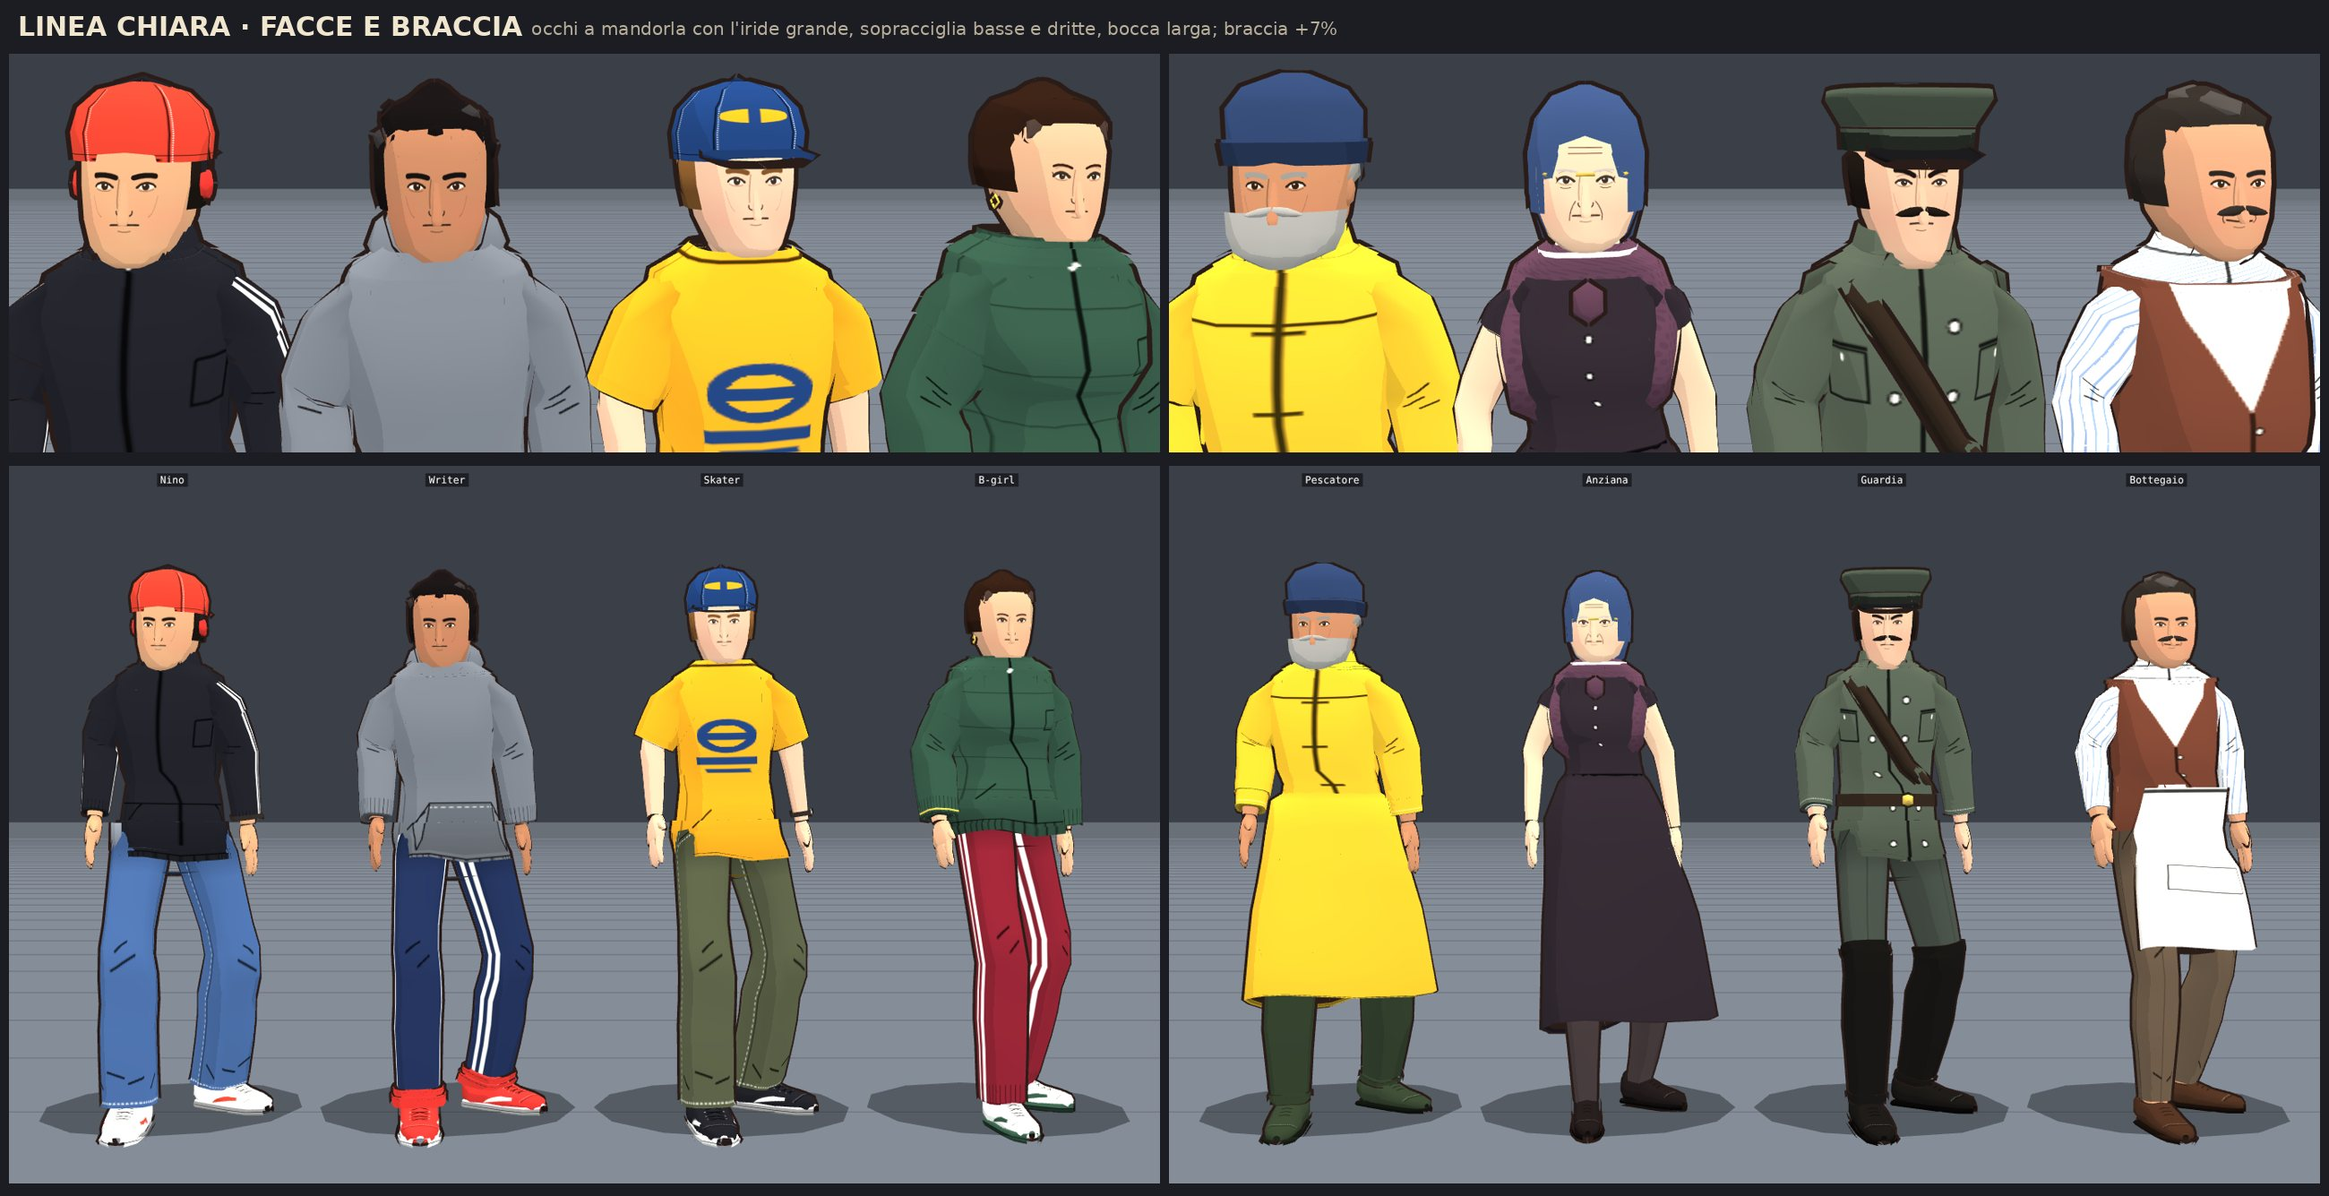
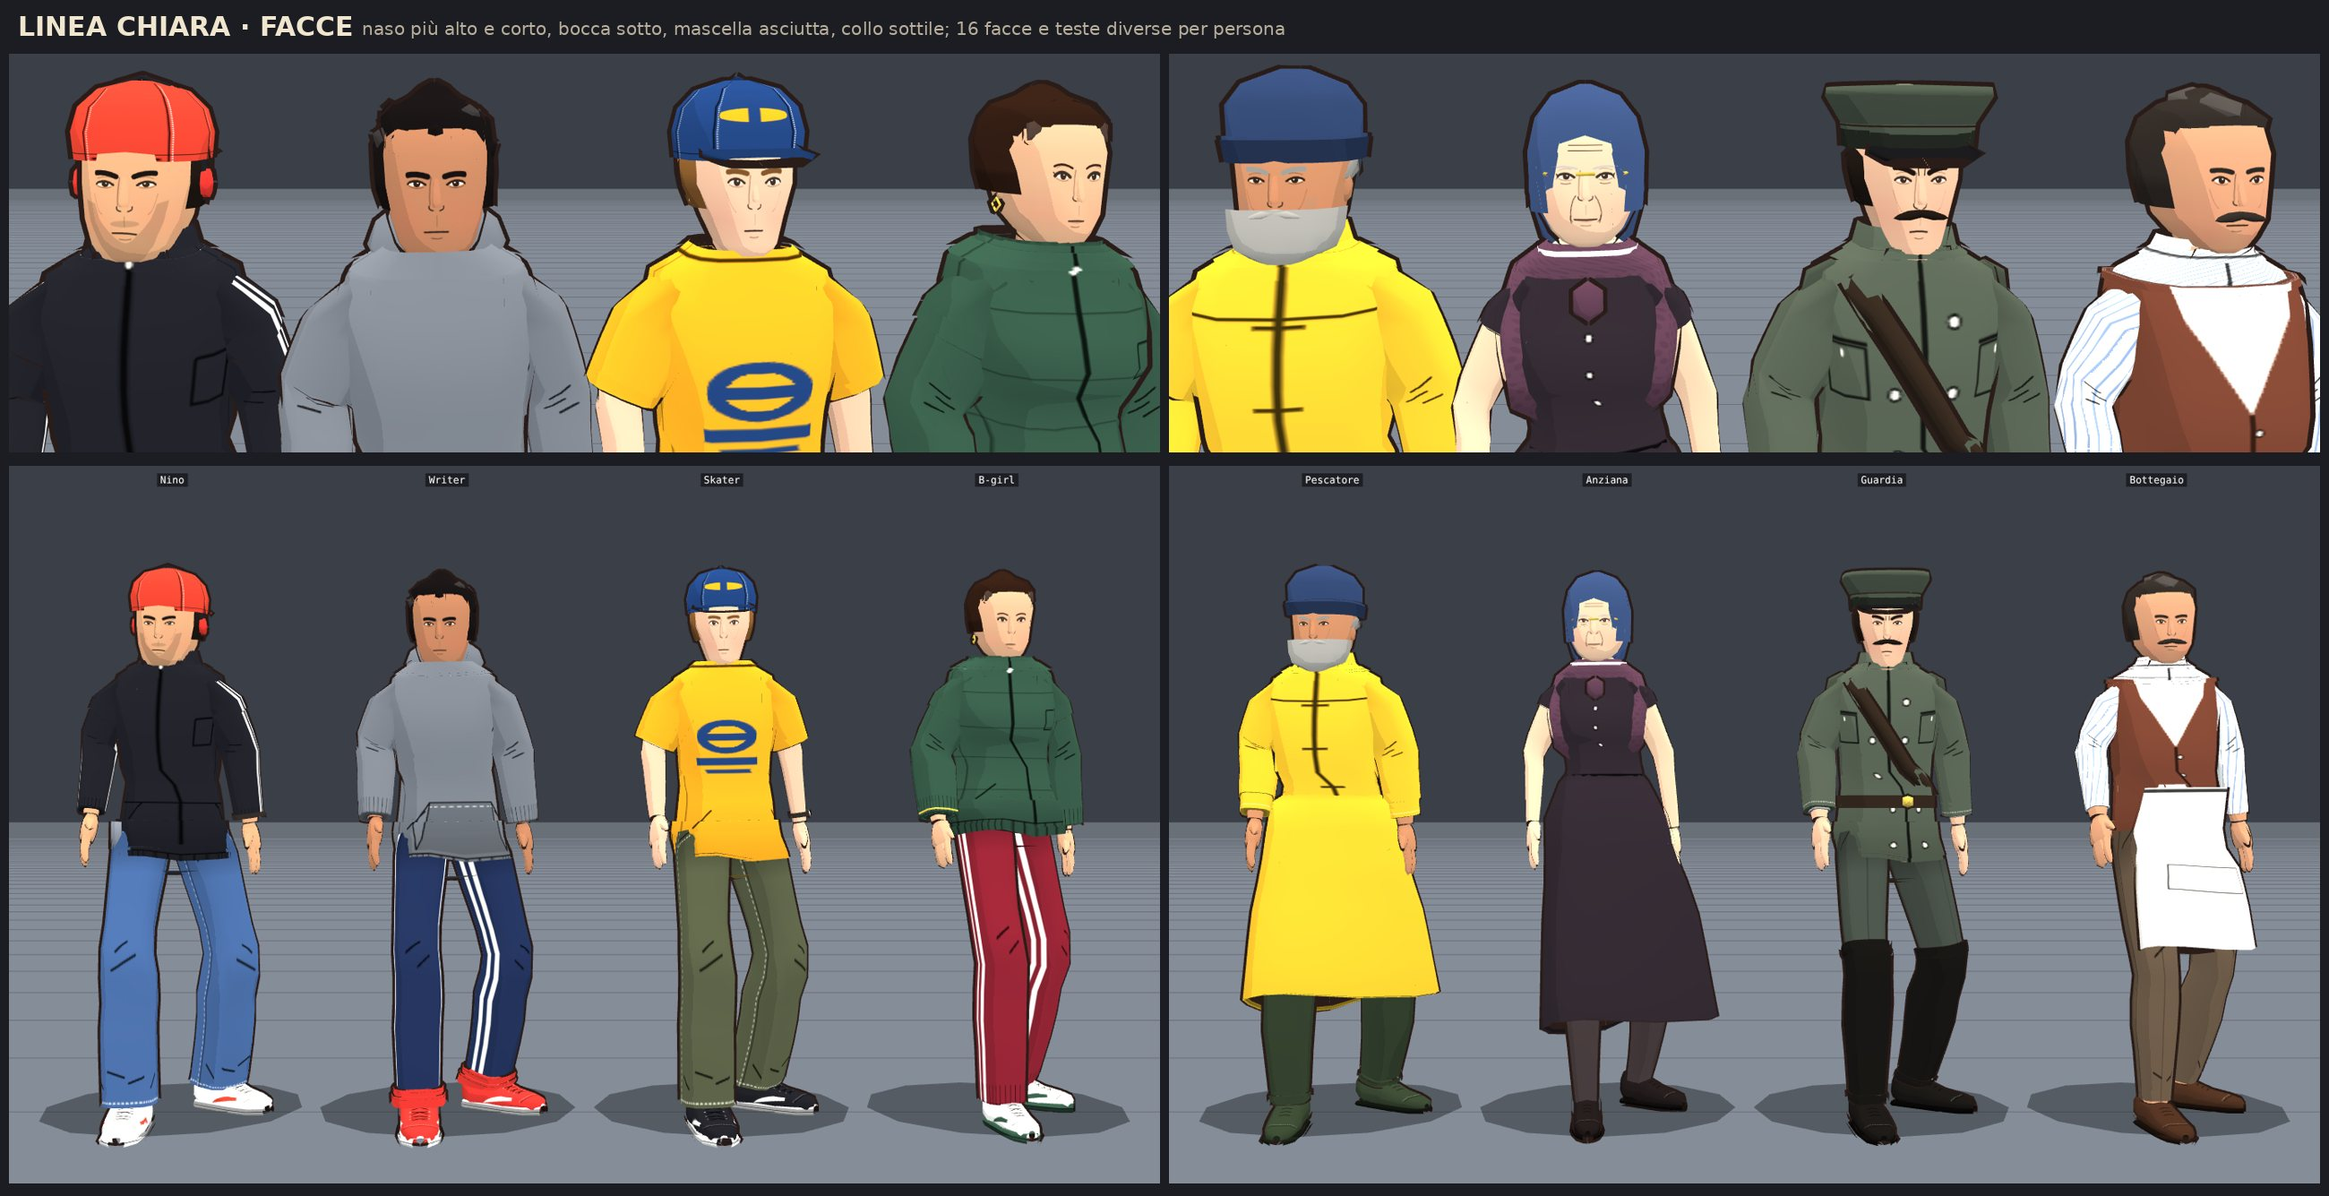
[personaggi] facce: naso sopra la bocca, mascella asciutta, più varietà
Naso più alto e corto (finisce sopra la bocca), bocca e baffi più in basso; mascelle più strette e
mento netto, collo più sottile (niente doppio mento). Ogni testa varia dal seme (mascella, zigomi,
fronte, mento, naso) e le facce dipinte sono 16 (occhi, sopracciglia, bocca e segni diversi).

Claude-Session: https://claude.ai/code/session_01JZTxbDaFvr9eJLacMLFKTo

diff --git a/v7/src/personaggi.js b/v7/src/personaggi.js
@@ -240,7 +240,7 @@ var Personaggi = (function () {
     // il fondo del busto: si chiude tra le cosce
     { const G = geomB(0), y0 = yOf(tlo); const L = strati(listaB, tlo + .002).top; loft(B, [{ c: [0, y0, G.c[2]], t: [0, 1, 0], a: G.a * (1 + tlo * 2.2) + .01, b: G.b * (1 + tlo * 2.2) + .01, col: L ? L.col : pelle, ao: .7, w: [['Hips', 1]] }, { c: [0, y0 - .01, G.c[2]], t: [0, 1, 0], a: .01, b: .01, col: L ? L.col : pelle, ao: .6, w: [['Hips', 1]] }]); }
     // il collo e il pomo: dentro la testa
-    loft(B, [0, .5, 1].map(q => { const y = lerp(yT - .01, J.Head[1] + .05, q); return { c: [0, y, lerp(J.Neck[2], J.Head[2] - .005, q)], t: [0, 1, 0], a: (f ? .045 : .055) * (D.corpo && D.corpo.robusto || 1), b: (f ? .045 : .052), col: pelle, ao: lerp(.8, .9, q), w: catena(y, ys, spine, [0, .05, .06, .07, .03, .025]) }; }));
+    loft(B, [0, .5, 1].map(q => { const y = lerp(yT - .01, J.Head[1] + .05, q); return { c: [0, y, lerp(J.Neck[2], J.Head[2] - .005, q)], t: [0, 1, 0], a: (f ? .038 : .047) * (D.corpo && D.corpo.robusto || 1) * lerp(1, .92, q), b: (f ? .038 : .045) * lerp(1, .9, q), col: pelle, ao: lerp(.8, .9, q), w: catena(y, ys, spine, [0, .05, .06, .07, .03, .025]) }; }));
     // ---------------- BRACCIA ----------------
     ['L', 'R'].forEach(sd => {
       const sg = sd === 'L' ? 1 : -1, j0 = J['UpperArm' + sd], j1 = J['LowerArm' + sd], j2 = J['Wrist' + sd], jS = J['Shoulder' + sd];
@@ -346,19 +346,30 @@ var Personaggi = (function () {
   }
   // ---------------- LA TESTA: cranio, mascella, naso, orecchie, sopracciglia, occhi, bocca, capelli a ciocche, baffi, barbe, occhiali, cappelli ----------------
   const TESTE = {   // [quota, mezza larghezza, mezza profondità, avanti] dal mento alla sommità (in metri, prima della scala dello stile)
-    ovale: [[-.034, .03, .02, .06], [-.026, .045, .038, .05], [-.012, .058, .066, .03], [.03, .074, .09, .012], [.085, .083, .1, .0], [.135, .086, .104, -.006], [.18, .079, .094, -.012], [.215, .056, .068, -.016], [.235, .014, .02, -.016]],
-    quadra: [[-.045, .026, .02, .07], [-.035, .048, .04, .055], [-.012, .068, .07, .03], [.03, .08, .092, .012], [.085, .086, .1, .0], [.135, .087, .103, -.006], [.18, .081, .094, -.012], [.21, .06, .07, -.015], [.232, .018, .024, -.015]],
-    tonda: [[-.04, .02, .02, .065], [-.03, .044, .044, .05], [-.01, .068, .074, .028], [.03, .084, .095, .01], [.085, .09, .102, .0], [.135, .089, .103, -.006], [.18, .08, .093, -.012], [.21, .057, .066, -.015], [.228, .015, .02, -.015]],
-    lunga: [[-.048, .03, .02, .064], [-.038, .044, .036, .052], [-.018, .055, .064, .032], [.03, .071, .088, .012], [.09, .08, .099, .0], [.14, .082, .102, -.006], [.19, .075, .093, -.012], [.225, .053, .065, -.016], [.245, .012, .018, -.016]],
+    ovale: [[-.034, .022, .02, .058], [-.024, .038, .034, .05], [-.006, .053, .06, .032], [.03, .068, .085, .014], [.085, .081, .099, .0], [.135, .085, .103, -.006], [.18, .079, .094, -.012], [.215, .056, .068, -.016], [.235, .014, .02, -.016]],
+    quadra: [[-.038, .03, .02, .062], [-.028, .048, .036, .052], [-.008, .062, .062, .032], [.03, .074, .088, .014], [.085, .084, .099, .0], [.135, .086, .103, -.006], [.18, .081, .094, -.012], [.21, .06, .07, -.015], [.232, .018, .024, -.015]],
+    tonda: [[-.032, .022, .02, .056], [-.022, .042, .038, .048], [-.004, .06, .064, .03], [.03, .076, .089, .012], [.085, .087, .1, .0], [.135, .088, .103, -.006], [.18, .08, .093, -.012], [.21, .057, .066, -.015], [.228, .015, .02, -.015]],
+    lunga: [[-.044, .022, .018, .062], [-.032, .038, .032, .052], [-.012, .052, .058, .032], [.03, .066, .086, .012], [.09, .078, .098, .0], [.14, .081, .102, -.006], [.19, .075, .093, -.012], [.225, .053, .065, -.016], [.245, .012, .018, -.016]],
   };
-  // le facce della tessera: 0 uomo, 1 uomo duro, 2 uomo che sorride, 3 vecchio, 4 donna, 5 donna che sorride, 6 vecchia, 7 uomo con la barba fatta da un giorno
+  // le sedici facce dell'atlante (40-55): occhi (ow, oh larghezza e altezza, ex distanza), sopracciglia (browW spessore, arco, bh altezza, coda giù, brow piega), bocca (mw larghezza, umore, storto), segni (zigomi, duro, rughe, barbetta, ciglia, labbra)
+  const FACCE = [
+    { zigomi: 1 }, { duro: 1, brow: 1, stretti: 1, umore: -.2, browW: .03, zigomi: 1 }, { umore: .6, storto: 1 }, { ow: 1.08, oh: .85, browW: .034, bh: -.008, mw: .085 },
+    { oh: 1.12, ex: .112, arco: .014, browW: .022, mw: .072 }, { duro: 1, stretti: 1, coda: .012, browW: .026, barbetta: 1, mw: .09 }, { umore: .35, oh: .95, arco: .008, browW: .024, zigomi: 1, mw: .078 }, { barbetta: 1, brow: .5, stretti: 1, zigomi: 1, storto: 1 },
+    { rughe: 1, brow: -.2, stretti: 1, umore: -.1, browW: .03 }, { rughe: 1, umore: .3, oh: .9, coda: .01, browW: .034, mw: .086 },
+    { ciglia: 1, labbra: 1, browW: .015, arco: .01 }, { ciglia: 1, labbra: 1, browW: .015, arco: .012, umore: .5, mw: .075 }, { ciglia: 1, labbra: 1, browW: .018, oh: .9, ow: 1.06, coda: .006, mw: .085 }, { ciglia: 1.3, labbra: 1, browW: .013, arco: .018, oh: 1.12, mw: .068 },
+    { ciglia: .5, labbra: 1, rughe: 1, browW: .013 }, { ciglia: .5, labbra: 1, rughe: 1, browW: .014, umore: .35, oh: .9 }];
   function facciaDi(D) {
     const T = D.testa || {}; if (T.faccia !== undefined) return T.faccia; const f = D.sesso === 'f', old = (D.eta || 30) > 58, um = T.umore || 0, sb = T.sopracciglia || 0;
-    if (f) return old ? 6 : um > .25 ? 5 : 4; if (old) return 3; if (sb < -.35) return 1; if (um > .25) return 2; return (D.eta || 30) > 25 && !D.barba ? 7 : 0;
+    const r = rng('faccia' + (D.seme !== undefined ? D.seme : JSON.stringify(D))), pk = a => a[Math.floor(r() * a.length)];
+    if (f) return old ? pk([14, 15]) : um > .3 ? 11 : pk([10, 12, 13]);
+    if (old) return pk([8, 9]); if (sb < -.35) return pk([1, 5]); if (um > .3) return pk([2, 6]); return pk([0, 3, 4, 7]);
   }
   function testa(B, J, D, pelle) {
     const st = S(), T = D.testa || {}, K = st.testa * (T.scala || 1) * (D.sesso === 'f' ? .95 : 1), h = J.Head, base = [h[0], h[1] - .01 * K, h[2] - .005], wH = [['Head', 1]];
-    const P = TESTE[T.forma] || TESTE.ovale, at = (y, x, z) => [base[0] + x * K, base[1] + y * K, base[2] + z * K];
+    const r = rng(D.seme !== undefined ? D.seme : JSON.stringify(D)), vv = (a, b) => lerp(a, b, r());
+    const masc = T.mascella || vv(.9, 1.06), zig = T.zigomi || vv(.96, 1.05), fro = T.fronte || vv(.97, 1.03), mento = T.mento !== undefined ? T.mento : vv(-.006, .006);
+    const P = (TESTE[T.forma] || TESTE.ovale).map(([y, a, b, fz]) => { const kj = y < .04 ? masc : y < .12 ? zig : fro; return [y < 0 ? y - mento : y, a * kj, b * (y < .04 ? lerp(1, masc, .5) : 1), fz + (y < 0 ? mento * .6 : 0)]; });
+    const at = (y, x, z) => [base[0] + x * K, base[1] + y * K, base[2] + z * K];
     const capH = (D.capelli && D.capelli.col) ? C3(D.capelli.col) : C3('#2a1a12'), labbra = mixc(pelle, [.55, .25, .22], .35), occ = C3('#1a1414');
     const ru = mixc(pelle, [.8, .35, .3], .12);   // un filo di rosso sulle guance
     const fac = TL.faccia + facciaDi(D), y0f = P[0][0], y1f = P[P.length - 1][0];
@@ -368,8 +379,8 @@ var Personaggi = (function () {
     const wid = (y) => { let i = 0; while (i < P.length - 2 && y > P[i + 1][0]) i++; const a = P[i], b = P[i + 1], t = cl((y - a[0]) / (b[0] - a[0]), 0, 1); return lerp(a[1], b[1], t); };
     B.ol = 0;
     // il naso: a cuneo, sporge dalla faccia; la forma per tipo (dritto, aquilino, a patata, all'insù)
-    const nk = (T.naso || 1) * st.naso, nt = T.nasoTipo || 'dritto', ny = .062, nz = front(ny) - .006;
-    const NR = { dritto: [[.095, .008, .006, 0], [.06, .013, .012, .012], [.035, .017, .016, .024], [.026, .012, .01, .028]], aquilino: [[.095, .008, .006, 0], [.07, .012, .012, .018], [.04, .015, .015, .03], [.025, .012, .01, .028]], patata: [[.09, .009, .007, 0], [.06, .014, .012, .012], [.035, .024, .022, .026], [.024, .018, .014, .026]], insu: [[.09, .007, .006, 0], [.06, .011, .01, .01], [.04, .015, .014, .022], [.033, .012, .01, .026]] }[nt] || null;
+    const nk = (T.naso || 1) * st.naso * vv(.92, 1.08), nt = T.nasoTipo || 'dritto', ny = .075, nz = front(ny) - .006;
+    const NR = { dritto: [[.104, .008, .006, 0], [.08, .011, .01, .01], [.062, .014, .013, .019], [.054, .011, .009, .02]], aquilino: [[.104, .008, .006, 0], [.085, .011, .011, .015], [.064, .013, .013, .022], [.054, .01, .009, .019]], patata: [[.1, .008, .007, 0], [.08, .012, .01, .01], [.063, .019, .017, .019], [.055, .014, .011, .019]], insu: [[.1, .007, .006, 0], [.08, .01, .009, .008], [.066, .013, .012, .016], [.06, .01, .008, .018]] }[nt] || null;
     loft(B, NR.map(([y, a, b, fz]) => ({ c: at(y, 0, nz), t: [0, -1, 0], f: [0, 0, 1], a: a * nk, b: b * nk, fz: fz * nk * K, p: 2, col: mixc(pelle, ru, .4), w: wH })), { seg: 8 });
     // le orecchie
     [1, -1].forEach(s => uovo(B, at(.075, s * (wid(.075) - .004), -.012), [0, 1, 0], .012 * K, .02 * K, .03 * K, mulc(pelle, .93), wH, { anelli: 4, seg: 7 }));
@@ -379,7 +390,7 @@ var Personaggi = (function () {
     B.ol = 1;
     capelli(B, at, K, D, capH, front, wid, wH, pa);
     B.ol = 0;
-    if (D.baffi) { const by = .045, bz = front(by) + .004, tipo = D.baffi; [1, -1].forEach(s => uovo(B, at(by - (tipo === 'spioventi' ? .006 : 0), s * .019, bz), [s, tipo === 'spioventi' ? -.6 : -.18, 0], .008 * K * (tipo === 'folti' || tipo === 'spioventi' ? 1.5 : 1), .009 * K, .026 * K * (tipo === 'spioventi' ? 1.2 : 1), capH, wH, { anelli: 4, seg: 6, punta: -.3, f: [0, 0, 1] })); }
+    if (D.baffi) { const by = .036, bz = front(by) + .002, tipo = D.baffi; [1, -1].forEach(s => uovo(B, at(by - (tipo === 'spioventi' ? .006 : 0), s * .019, bz), [s, tipo === 'spioventi' ? -.6 : -.18, 0], .008 * K * (tipo === 'folti' || tipo === 'spioventi' ? 1.5 : 1), .009 * K, .026 * K * (tipo === 'spioventi' ? 1.2 : 1), capH, wH, { anelli: 4, seg: 6, punta: -.3, f: [0, 0, 1] })); }
     if (D.barba) { const corta = D.barba === 'corta' || D.barba === 'pizzetto';
       if (D.barba === 'pizzetto') uovo(B, at(-.025, 0, front(-.025) - .008), [0, 1, .2], .022 * K, .014 * K, .028 * K, capH, wH, { anelli: 4, seg: 7 });
       else loft(B, [[-.06, .02, .02, .07], [-.045, .05, .045, .06], [-.02, .078, .078, .03], [.01, .09, .1, .012], [.045, .094, .104, .004]].map(([y, a, b, fz], j) => ({ c: at(y + (corta ? .012 : 0) * (j < 2 ? 1 : 0), 0, 0), t: [0, 1, 0], f: [0, 0, 1], a: (a + (corta ? .003 : .008)) * K, b: (b + (corta ? .003 : .008)) * K, fz: fz * K, col: capH, w: wH, mod: th => { const fr = Math.cos(th); return fr < .1 ? -.5 * sm((.1 - fr) / .5) : 0; } })), { seg: 14 }); }
@@ -623,7 +634,7 @@ var Personaggi = (function () {
     T(37, c => { spicchi(c); logo(c, 0); logo(c, 1); line(c, .02, [[.44, .02], [.56, .02]]); });
     // 40-47 le facce (u allargata: il viso riempie la tessera; v 0 il mento, 1 la sommità). R = sopracciglia e barba (colore dei capelli), B = il bianco degli occhi, R+B = le labbra, G = l'inchiostro
     const faccia = (i, o) => T(40 + i, c => {
-      const ey = .472, ex = .118, h = o.stretti ? .016 : .021, w = .047, br = o.ciglia || 0;
+      const ey = .472, ex = o.ex || .118, h = (o.stretti ? .016 : .021) * (o.oh || 1), w = .047 * (o.ow || 1), br = o.ciglia || 0;
       c.lineCap = 'round'; c.lineJoin = 'round';
       [-1, 1].forEach(s => { const x = .5 + s * ex, xi = x - s * w, xo = x + s * w;   // xi verso il naso, xo verso la tempia
         // la mandorla: il bianco appena, l'iride grande e scura, la palpebra di sopra pesante e un po' calata verso l'esterno
@@ -635,26 +646,25 @@ var Personaggi = (function () {
         c.lineWidth = .004; c.globalAlpha = .55; c.beginPath(); c.moveTo(xi + s * .008, ey - h * .9); c.quadraticCurveTo(x, ey - h * 1.7, xo - s * .004, ey - h * .5); c.stroke(); c.globalAlpha = 1;
         c.lineWidth = .004; c.globalAlpha = .45; c.beginPath(); c.moveTo(xi + s * .01, ey + h * 2.6); c.quadraticCurveTo(x, ey + h * 3.4, xo - s * .006, ey + h * 2.2); c.stroke(); c.globalAlpha = 1;   // la piega della palpebra
         // le sopracciglia: basse, quasi dritte, vicine agli occhi; la testa verso il naso un filo più giù
-        const bt = o.brow || 0, bw = o.browW || .03; c.strokeStyle = R; c.lineWidth = bw; c.beginPath(); c.moveTo(.5 + s * .05, .525 - bt * .012); c.quadraticCurveTo(.5 + s * .11, .548 + (o.arco || 0), .5 + s * .175, .535 + bt * .008); c.stroke();
+        const bt = o.brow || 0, bw = o.browW || .03; c.strokeStyle = R; c.lineWidth = bw; c.beginPath(); c.moveTo(.5 + s * .05, .525 - bt * .012 + (o.bh || 0)); c.quadraticCurveTo(.5 + s * .11, .548 + (o.arco || 0) + (o.bh || 0), .5 + s * .175, .535 + bt * .008 + (o.bh || 0) - (o.coda || 0)); c.stroke();
         if (o.rughe) { c.strokeStyle = G; c.lineWidth = .004; c.beginPath(); c.moveTo(xo + s * .006, ey + .004); c.lineTo(xo + s * .022, ey + .016); c.moveTo(xo + s * .006, ey - .006); c.lineTo(xo + s * .022, ey - .014); c.stroke(); c.beginPath(); c.moveTo(x - .03, ey - .04); c.quadraticCurveTo(x, ey - .052, x + .03, ey - .04); c.stroke(); } });
       c.strokeStyle = G;
       // il naso: l'ombra del dorso da un lato, le ali, le narici
       c.globalAlpha = .5; c.lineWidth = .006; c.beginPath(); c.moveTo(.47, .515); c.quadraticCurveTo(.455, .42, .46, .35); c.stroke(); c.globalAlpha = 1;
-      c.lineWidth = .007; [-1, 1].forEach(s => { c.beginPath(); c.moveTo(.5 + s * .045, .335); c.quadraticCurveTo(.5 + s * .05, .31, .5 + s * .02, .305); c.stroke(); });
+      c.lineWidth = .007; [-1, 1].forEach(s => { c.beginPath(); c.moveTo(.5 + s * .045, .345); c.quadraticCurveTo(.5 + s * .05, .322, .5 + s * .02, .318); c.stroke(); });
       // la bocca: larga e dritta, il labbro di sotto accennato; l'umore la piega appena
-      const um = o.umore || 0, my = .255, mw = .085;
+      const um = o.umore || 0, my = .19, mw = o.mw || .08;
       if (o.labbra) { c.fillStyle = 'rgb(255,0,255)'; c.beginPath(); c.moveTo(.5 - mw, my); c.quadraticCurveTo(.5, my + .025, .5 + mw, my); c.quadraticCurveTo(.5, my - .03, .5 - mw, my); c.fill(); }
       c.lineWidth = .01; c.beginPath(); c.moveTo(.5 - mw, my + um * .012); c.quadraticCurveTo(.5, my - um * .02 + .004, .5 + mw, my + um * .012 - (o.storto ? .008 : 0)); c.stroke();
       c.lineWidth = .006; c.globalAlpha = .5; c.beginPath(); c.moveTo(.46, my - .035); c.quadraticCurveTo(.5, my - .045, .54, my - .035); c.stroke(); c.globalAlpha = 1;
-      c.lineWidth = .004; c.globalAlpha = .4; c.beginPath(); c.moveTo(.5, my + .06); c.lineTo(.5, my + .03); c.stroke(); c.globalAlpha = 1;   // il solco sopra il labbro
+      c.lineWidth = .004; c.globalAlpha = .4; c.beginPath(); c.moveTo(.5, my + .1); c.lineTo(.5, my + .035); c.stroke(); c.globalAlpha = 1;   // il solco sopra il labbro
       if (um > .3) [-1, 1].forEach(s => { c.lineWidth = .005; c.beginPath(); c.moveTo(.5 + s * (mw + .02), my + .03); c.quadraticCurveTo(.5 + s * (mw + .03), my + .005, .5 + s * (mw + .012), my - .012); c.stroke(); });
-      if (o.rughe) [-1, 1].forEach(s => { c.lineWidth = .005; c.beginPath(); c.moveTo(.5 + s * .06, .345); c.quadraticCurveTo(.5 + s * .105, .29, .5 + s * (mw + .02), .225); c.stroke(); c.beginPath(); c.moveTo(.4, .66 + s * .018); c.lineTo(.6, .66 + s * .018); c.stroke(); });
+      if (o.rughe) [-1, 1].forEach(s => { c.lineWidth = .005; c.beginPath(); c.moveTo(.5 + s * .06, .35); c.quadraticCurveTo(.5 + s * .11, .28, .5 + s * (mw + .025), .17); c.stroke(); c.beginPath(); c.moveTo(.4, .66 + s * .018); c.lineTo(.6, .66 + s * .018); c.stroke(); });
       if (o.duro) [-1, 1].forEach(s => { c.lineWidth = .006; c.beginPath(); c.moveTo(.5 + s * .018, .5); c.lineTo(.5 + s * .022, .545); c.stroke(); });
       if (o.zigomi) [-1, 1].forEach(s => { c.lineWidth = .004; c.globalAlpha = .35; c.beginPath(); c.moveTo(.5 + s * .2, .42); c.quadraticCurveTo(.5 + s * .18, .34, .5 + s * .14, .3); c.stroke(); c.globalAlpha = 1; });
-      if (o.barbetta) { c.fillStyle = R; c.globalAlpha = .28; c.beginPath(); c.moveTo(.2, .38); c.quadraticCurveTo(.25, .02, .5, -.02); c.quadraticCurveTo(.75, .02, .8, .38); c.lineTo(.7, .36); c.quadraticCurveTo(.6, .2, .5, .19); c.quadraticCurveTo(.4, .2, .3, .36); c.closePath(); c.fill(); c.beginPath(); c.ellipse(.5, .29, .09, .018, 0, 0, 7); c.fill(); c.globalAlpha = 1; }
+      if (o.barbetta) { c.fillStyle = R; c.globalAlpha = .16; c.beginPath(); c.moveTo(.2, .38); c.quadraticCurveTo(.25, .0, .5, -.04); c.quadraticCurveTo(.75, .0, .8, .38); c.lineTo(.7, .36); c.quadraticCurveTo(.6, .14, .5, .13); c.quadraticCurveTo(.4, .14, .3, .36); c.closePath(); c.fill(); c.beginPath(); c.ellipse(.5, .245, .09, .02, 0, 0, 7); c.fill(); c.globalAlpha = 1; }
     });
-    faccia(0, { zigomi: 1 }); faccia(1, { duro: 1, brow: 1, stretti: 1, umore: -.2, browW: .028, zigomi: 1 }); faccia(2, { umore: .6, storto: 1 }); faccia(3, { rughe: 1, brow: -.2, stretti: 1, umore: -.1 });
-    faccia(4, { ciglia: 1, labbra: 1, browW: .015, arco: .01 }); faccia(5, { ciglia: 1, labbra: 1, browW: .015, arco: .012, umore: .5 }); faccia(6, { ciglia: .5, labbra: 1, rughe: 1, browW: .013 }); faccia(7, { barbetta: 1, brow: .5, stretti: 1, zigomi: 1, storto: 1 });
+    FACCE.forEach((o, i) => faccia(i, o));
     // i motivi (ripetuti ogni 'prep' metri): R = secondo colore (col3)
     const P = (j, fn) => T(16 + j, fn);
     P(1, c => { c.fillStyle = R; for (let k = 0; k < 4; k++) c.fillRect(0, k / 4, 1, .1); });   // righe da marinaio
